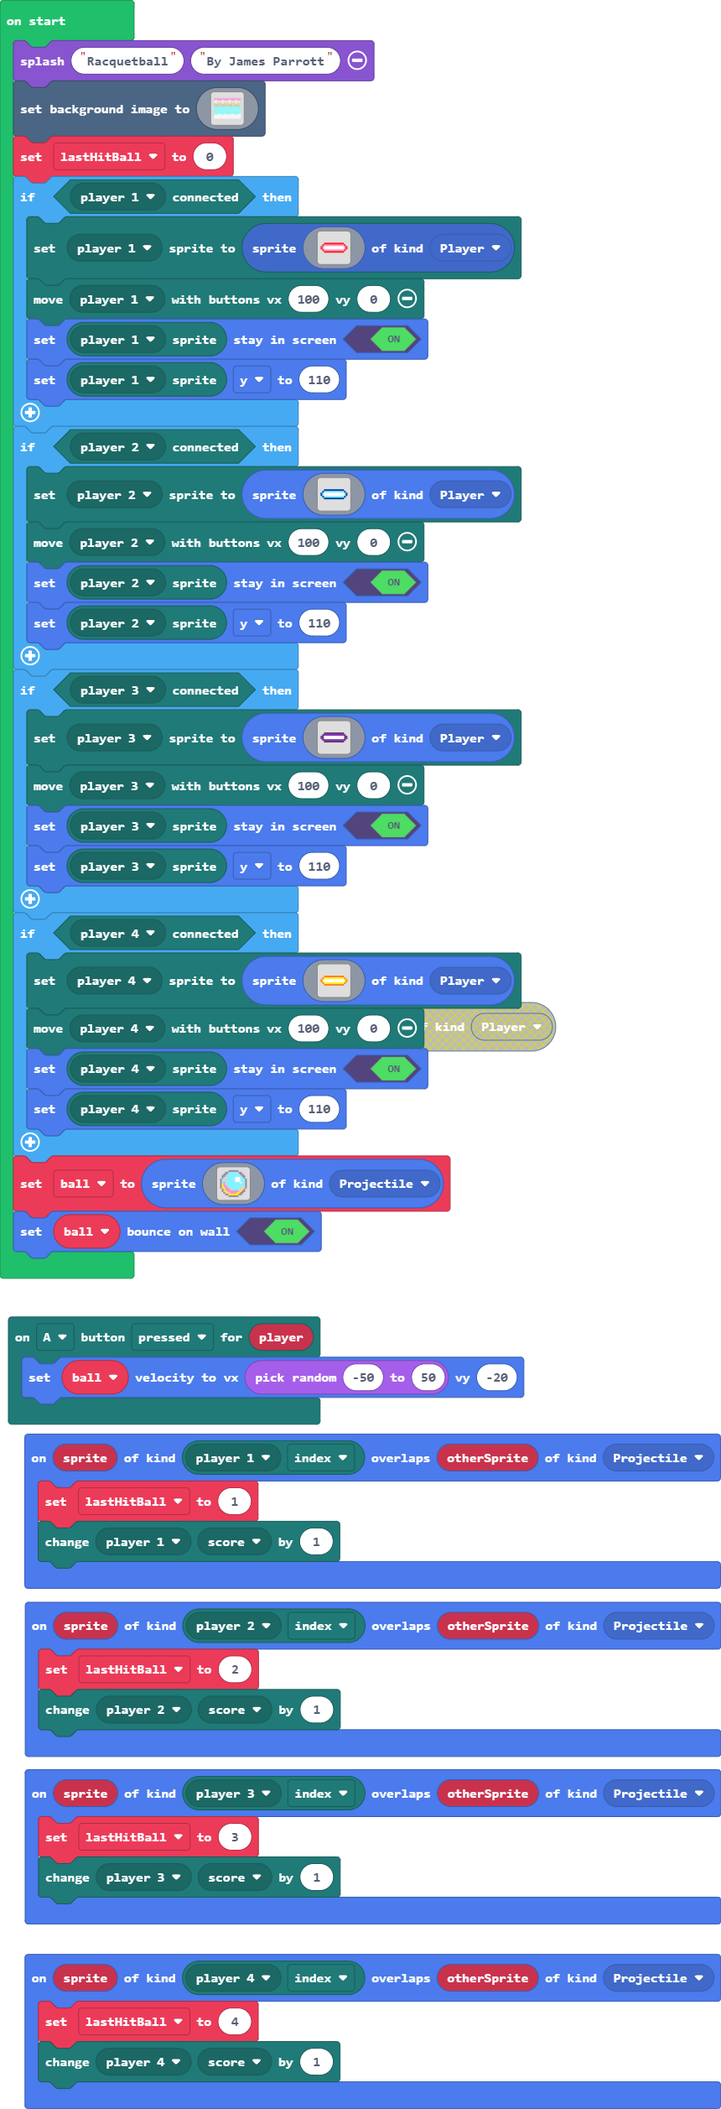
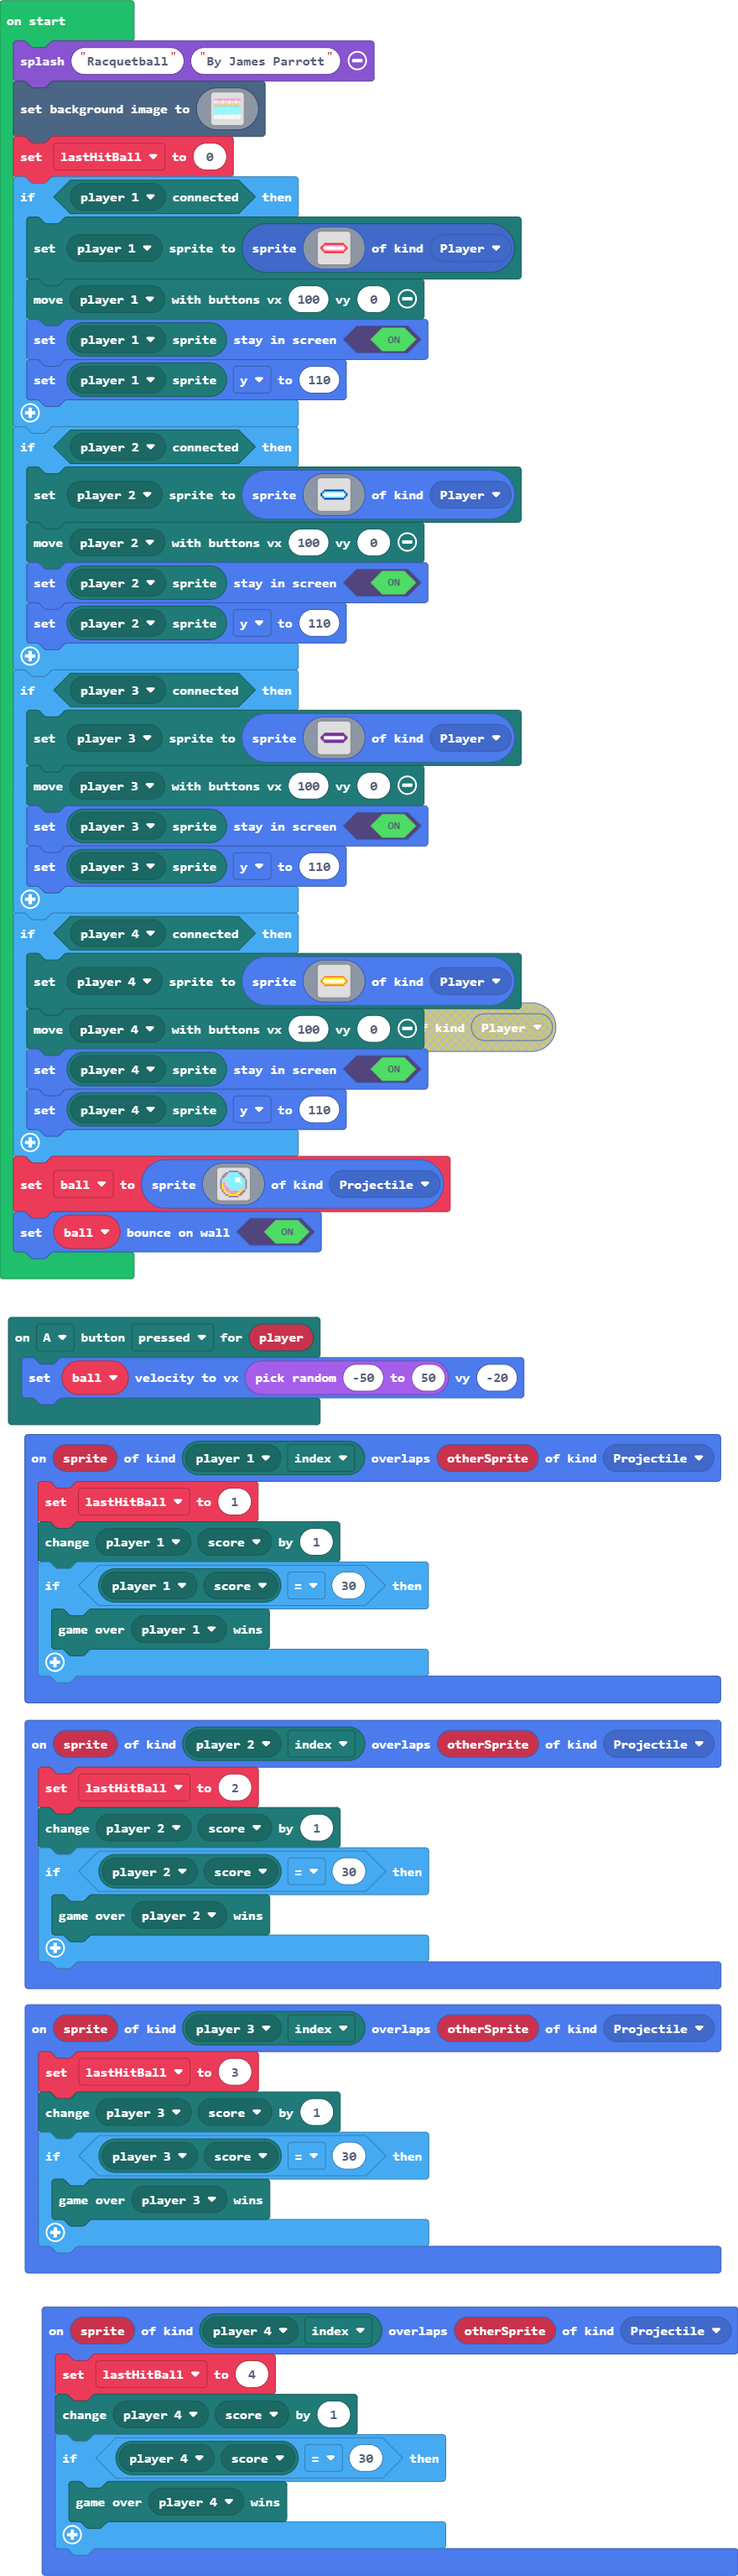
add win condition on each player

diff --git a/main.ts b/main.ts
@@ -4,6 +4,9 @@ namespace SpriteKind {
 sprites.onOverlap(mp.getPlayerProperty(mp.playerSelector(mp.PlayerNumber.One), mp.PlayerProperty.Index), SpriteKind.Projectile, function (sprite, otherSprite) {
     lastHitBall = 1
     mp.changePlayerStateBy(mp.playerSelector(mp.PlayerNumber.One), MultiplayerState.score, 1)
+    if (mp.getPlayerState(mp.playerSelector(mp.PlayerNumber.One), MultiplayerState.score) == 30) {
+        mp.gameOverPlayerWin(mp.playerSelector(mp.PlayerNumber.One))
+    }
 })
 mp.onButtonEvent(mp.MultiplayerButton.A, ControllerButtonEvent.Pressed, function (player2) {
     ball.setVelocity(randint(-50, 50), -20)
@@ -11,14 +14,23 @@ mp.onButtonEvent(mp.MultiplayerButton.A, ControllerButtonEvent.Pressed, function
 sprites.onOverlap(mp.getPlayerProperty(mp.playerSelector(mp.PlayerNumber.Three), mp.PlayerProperty.Index), SpriteKind.Projectile, function (sprite, otherSprite) {
     lastHitBall = 3
     mp.changePlayerStateBy(mp.playerSelector(mp.PlayerNumber.Three), MultiplayerState.score, 1)
+    if (mp.getPlayerState(mp.playerSelector(mp.PlayerNumber.Three), MultiplayerState.score) == 30) {
+        mp.gameOverPlayerWin(mp.playerSelector(mp.PlayerNumber.Three))
+    }
 })
 sprites.onOverlap(mp.getPlayerProperty(mp.playerSelector(mp.PlayerNumber.Four), mp.PlayerProperty.Index), SpriteKind.Projectile, function (sprite, otherSprite) {
     lastHitBall = 4
     mp.changePlayerStateBy(mp.playerSelector(mp.PlayerNumber.Four), MultiplayerState.score, 1)
+    if (mp.getPlayerState(mp.playerSelector(mp.PlayerNumber.Four), MultiplayerState.score) == 30) {
+        mp.gameOverPlayerWin(mp.playerSelector(mp.PlayerNumber.Four))
+    }
 })
 sprites.onOverlap(mp.getPlayerProperty(mp.playerSelector(mp.PlayerNumber.Two), mp.PlayerProperty.Index), SpriteKind.Projectile, function (sprite, otherSprite) {
     lastHitBall = 2
     mp.changePlayerStateBy(mp.playerSelector(mp.PlayerNumber.Two), MultiplayerState.score, 1)
+    if (mp.getPlayerState(mp.playerSelector(mp.PlayerNumber.Two), MultiplayerState.score) == 30) {
+        mp.gameOverPlayerWin(mp.playerSelector(mp.PlayerNumber.Two))
+    }
 })
 let ball: Sprite = null
 let lastHitBall = 0
